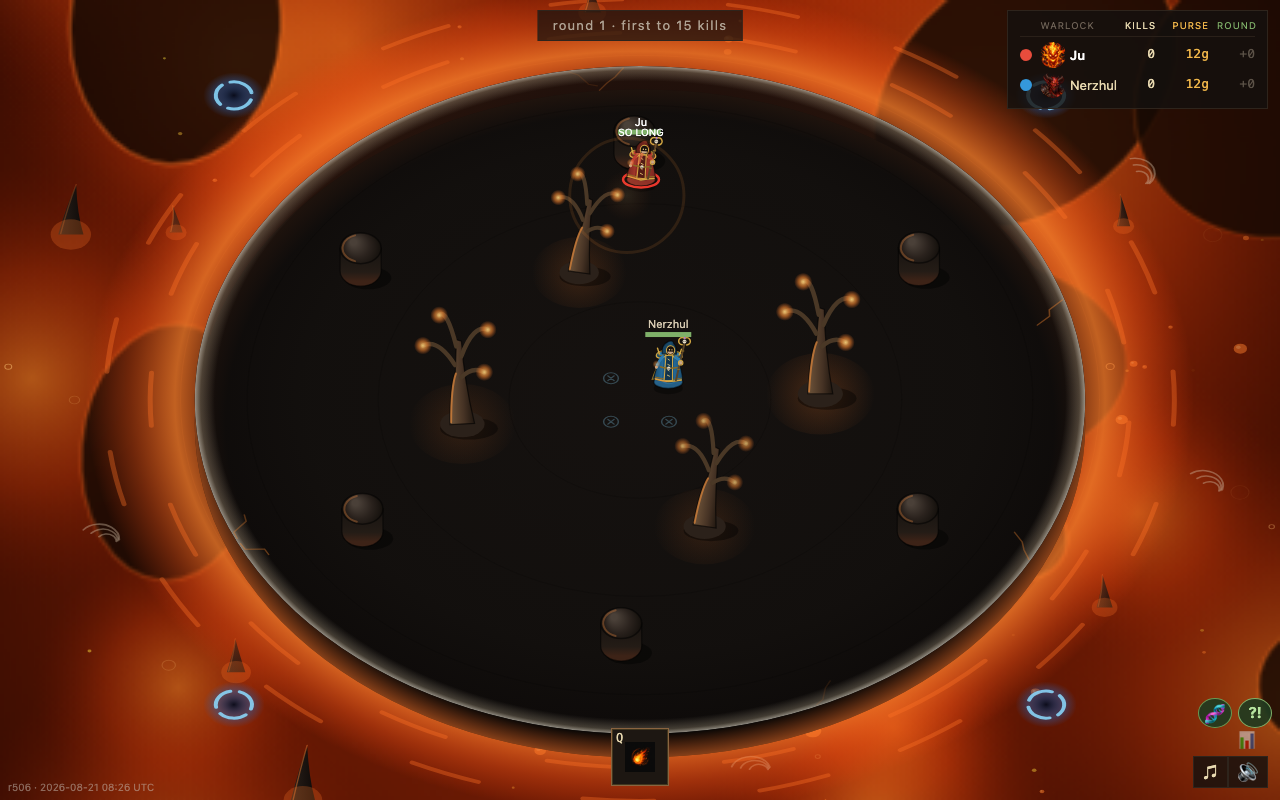
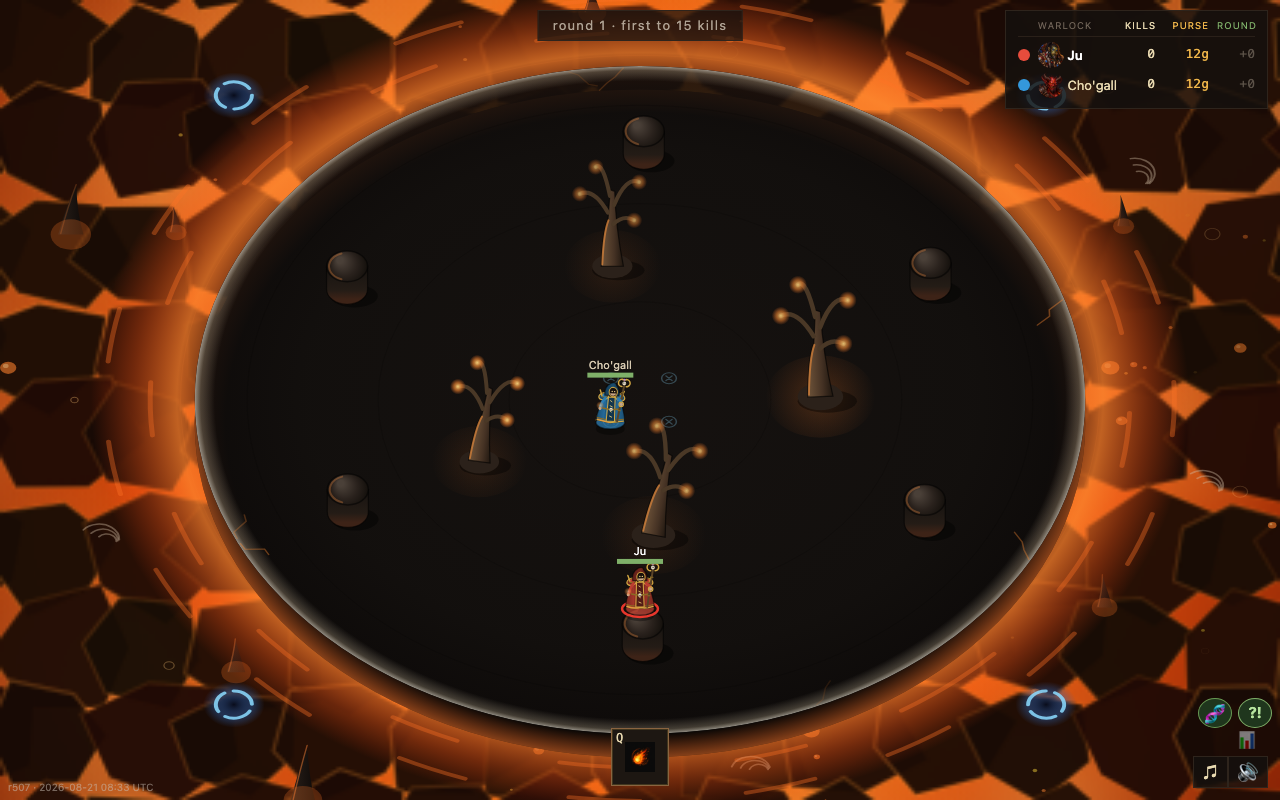
Ju v21.1 (issue #13): the lava restyled after his reference — crackled magma (dark drifting crust plates, thin incandescent vein network, hot halo at the slab rim)

diff --git a/client/render.js b/client/render.js
@@ -1691,61 +1691,65 @@ export function draw(view, vs, fx, myId, moveMark, now, bubbles = []) {
 // expensive paints), at ~1/3 resolution. Base color and level art are drawn
 // full-res on the main canvas by draw().
 function drawBackdrop(view, worldAlpha, t) {
+  // v21.1 (Ju's reference): CRACKLED magma. Bright molten ground, tiled over
+  // by dark cooled plates that drift very slowly; the glowing gaps between
+  // them ARE the vein network, and slow waves of heat pulse through it.
   const ctx = view.bctx;
   const w = view.back.width, h = view.back.height;
   if (worldAlpha <= 0.01) { ctx.clearRect(0, 0, w, h); return; }
-  // the molten base: a deep red sea, hotter toward the middle of the screen
-  const base = ctx.createRadialGradient(w / 2, h / 2, 0, w / 2, h / 2, Math.hypot(w, h) / 2);
-  base.addColorStop(0, '#8a2405');
-  base.addColorStop(0.55, '#6b1a04');
-  base.addColorStop(1, '#3a0d02');
-  ctx.fillStyle = base;
-  ctx.fillRect(0, 0, w, h);
   const cx = w / 2, cy = h / 2;
   const maxR = Math.hypot(w, h) / 2;
-  // bright currents: the drifting hot blobs (they ARE the flow)
+  // 1. the molten ground the cracks reveal: hot orange, brightest in a ring
+  // around the slab (the reference's halo)
+  const base = ctx.createRadialGradient(cx, cy, 0, cx, cy, maxR);
+  base.addColorStop(0, '#ffb43a');
+  base.addColorStop(0.40, '#ff8a1e');
+  base.addColorStop(0.65, '#d84a0c');
+  base.addColorStop(1, '#8a2406');
+  ctx.fillStyle = base;
+  ctx.fillRect(0, 0, w, h);
+  // 2. heat waves: two drifting hot spots brighten the veins they pass over
   for (const b of BLOBS) {
-    const ang = b.a + t * b.speed * 1.6 + Math.sin(t * 0.3 + b.phase) * 0.4;
-    const rr = b.r * maxR;
-    const bx = cx + Math.cos(ang) * rr;
-    const by = cy + Math.sin(ang) * rr;
-    const size = b.size * maxR * (1 + 0.18 * Math.sin(t * 0.8 + b.phase));
+    const ang = b.a + t * b.speed * 1.2;
+    const bx = cx + Math.cos(ang) * b.r * maxR;
+    const by = cy + Math.sin(ang) * b.r * maxR;
+    const size = b.size * maxR;
     const g = ctx.createRadialGradient(bx, by, 0, bx, by, size);
-    g.addColorStop(0, 'rgba(255, 140, 40, 0.55)');
-    g.addColorStop(0.5, 'rgba(230, 70, 12, 0.28)');
-    g.addColorStop(1, 'rgba(120, 20, 0, 0)');
+    g.addColorStop(0, 'rgba(255, 220, 120, 0.30)');
+    g.addColorStop(1, 'rgba(255, 180, 60, 0)');
     ctx.fillStyle = g;
     ctx.beginPath(); ctx.arc(bx, by, size, 0, Math.PI * 2); ctx.fill();
   }
-  // crust plates: dark cooled slabs drifting slowly on their own orbits; the
-  // glowing gaps between them read as the lava's veins. Stateless (i, t).
-  for (let i = 0; i < 12; i++) {
-    const h1 = Math.sin(i * 87.3) * 0.5 + 0.5;
-    const h2 = Math.sin(i * 191.1) * 0.5 + 0.5;
-    const ang = h1 * Math.PI * 2 + t * 0.015 * (h2 > 0.5 ? 1 : -1);
-    const rad = maxR * (0.25 + 0.75 * h2);
-    const px = cx + Math.cos(ang) * rad;
-    const py = cy + Math.sin(ang) * rad;
-    const pr = maxR * (0.10 + 0.14 * h1);
-    const rot = h1 * 3 + t * 0.02 * (h2 > 0.5 ? -1 : 1);
-    ctx.save();
-    ctx.translate(px, py); ctx.rotate(rot);
-    ctx.fillStyle = 'rgba(22, 9, 4, 0.85)';
-    ctx.beginPath(); ctx.ellipse(0, 0, pr, pr * (0.55 + 0.3 * h2), 0, 0, Math.PI * 2); ctx.fill();
-    ctx.strokeStyle = `rgba(255, 120, 40, ${0.25 + 0.12 * Math.sin(t * 1.3 + i)})`;
-    ctx.lineWidth = 1.5;
-    ctx.stroke();
-    ctx.restore();
-  }
-  // heat shimmer: two soft bright bands sweeping very slowly across
-  for (let k = 0; k < 2; k++) {
-    const sx3 = ((t * (6 + k * 4)) % (w * 1.6)) - w * 0.3;
-    const sg = ctx.createLinearGradient(sx3 - 40, 0, sx3 + 40, 0);
-    sg.addColorStop(0, 'rgba(255, 160, 60, 0)');
-    sg.addColorStop(0.5, 'rgba(255, 160, 60, 0.07)');
-    sg.addColorStop(1, 'rgba(255, 160, 60, 0)');
-    ctx.fillStyle = sg;
-    ctx.fillRect(sx3 - 40, 0, 80, h);
+  // 3. the cooled plates: a jittered grid of dark irregular slabs. The 2-5 px
+  // gaps left between them read as the cellular crack network. Each plate
+  // drifts on its own tiny orbit, so the whole crust creeps.
+  const cell = Math.max(30, Math.round(w / 13));
+  for (let gy = -1; gy * cell < h + cell; gy++) {
+    for (let gx = -1; gx * cell < w + cell; gx++) {
+      const h1 = Math.sin(gx * 91.7 + gy * 47.3) * 0.5 + 0.5;
+      const h2 = Math.sin(gx * 13.1 + gy * 173.9) * 0.5 + 0.5;
+      const px = gx * cell + cell * (0.4 + 0.2 * h1) + Math.cos(t * 0.05 + h2 * 7) * 2;
+      const py = gy * cell + cell * (0.4 + 0.2 * h2) + Math.sin(t * 0.04 + h1 * 7) * 2;
+      const pr = cell * (0.74 + 0.15 * h1);   // plates overlap: only THIN veins survive
+      ctx.beginPath();
+      for (let k = 0; k < 6; k++) {
+        const a2 = h2 * 6 + (k / 6) * Math.PI * 2;
+        const rr = pr * (0.75 + 0.25 * (Math.sin(gx * 3 + gy * 5 + k * 2.7) * 0.5 + 0.5));
+        const vx2 = px + Math.cos(a2) * rr, vy2 = py + Math.sin(a2) * rr * 0.85;
+        if (k === 0) ctx.moveTo(vx2, vy2); else ctx.lineTo(vx2, vy2);
+      }
+      ctx.closePath();
+      // near-black crusted rock, barely varied, almost opaque: the veins are
+      // the only light (the reference's look)
+      const d2 = Math.hypot(px - cx, py - cy) / maxR;
+      ctx.fillStyle = `rgba(${24 + Math.round(8 * h1)}, ${10 + Math.round(4 * h2)}, 5, 0.96)`;
+      ctx.fill();
+      // the plate's rim catches the vein light, pulsing with a slow wave
+      const pulse = 0.5 + 0.5 * Math.sin(t * 1.1 + d2 * 6 + h1 * 4);
+      ctx.strokeStyle = `rgba(255, 150, 50, ${0.10 + 0.16 * pulse})`;
+      ctx.lineWidth = 1.2;
+      ctx.stroke();
+    }
   }
   ctx.globalAlpha = 1;
 }

diff --git a/shared/version.js b/shared/version.js
@@ -2,4 +2,4 @@
 // rN = repo commit count. Shown in the client corner, in /health and in the
 // welcome handshake, so a stale tab, a stale Pages CDN copy or a mixed
 // client/server pair announces itself instead of being a mystery.
-export const VERSION = 'r507 · 2026-08-21 08:33 UTC';
+export const VERSION = 'r508 · 2026-08-21 12:09 UTC';
